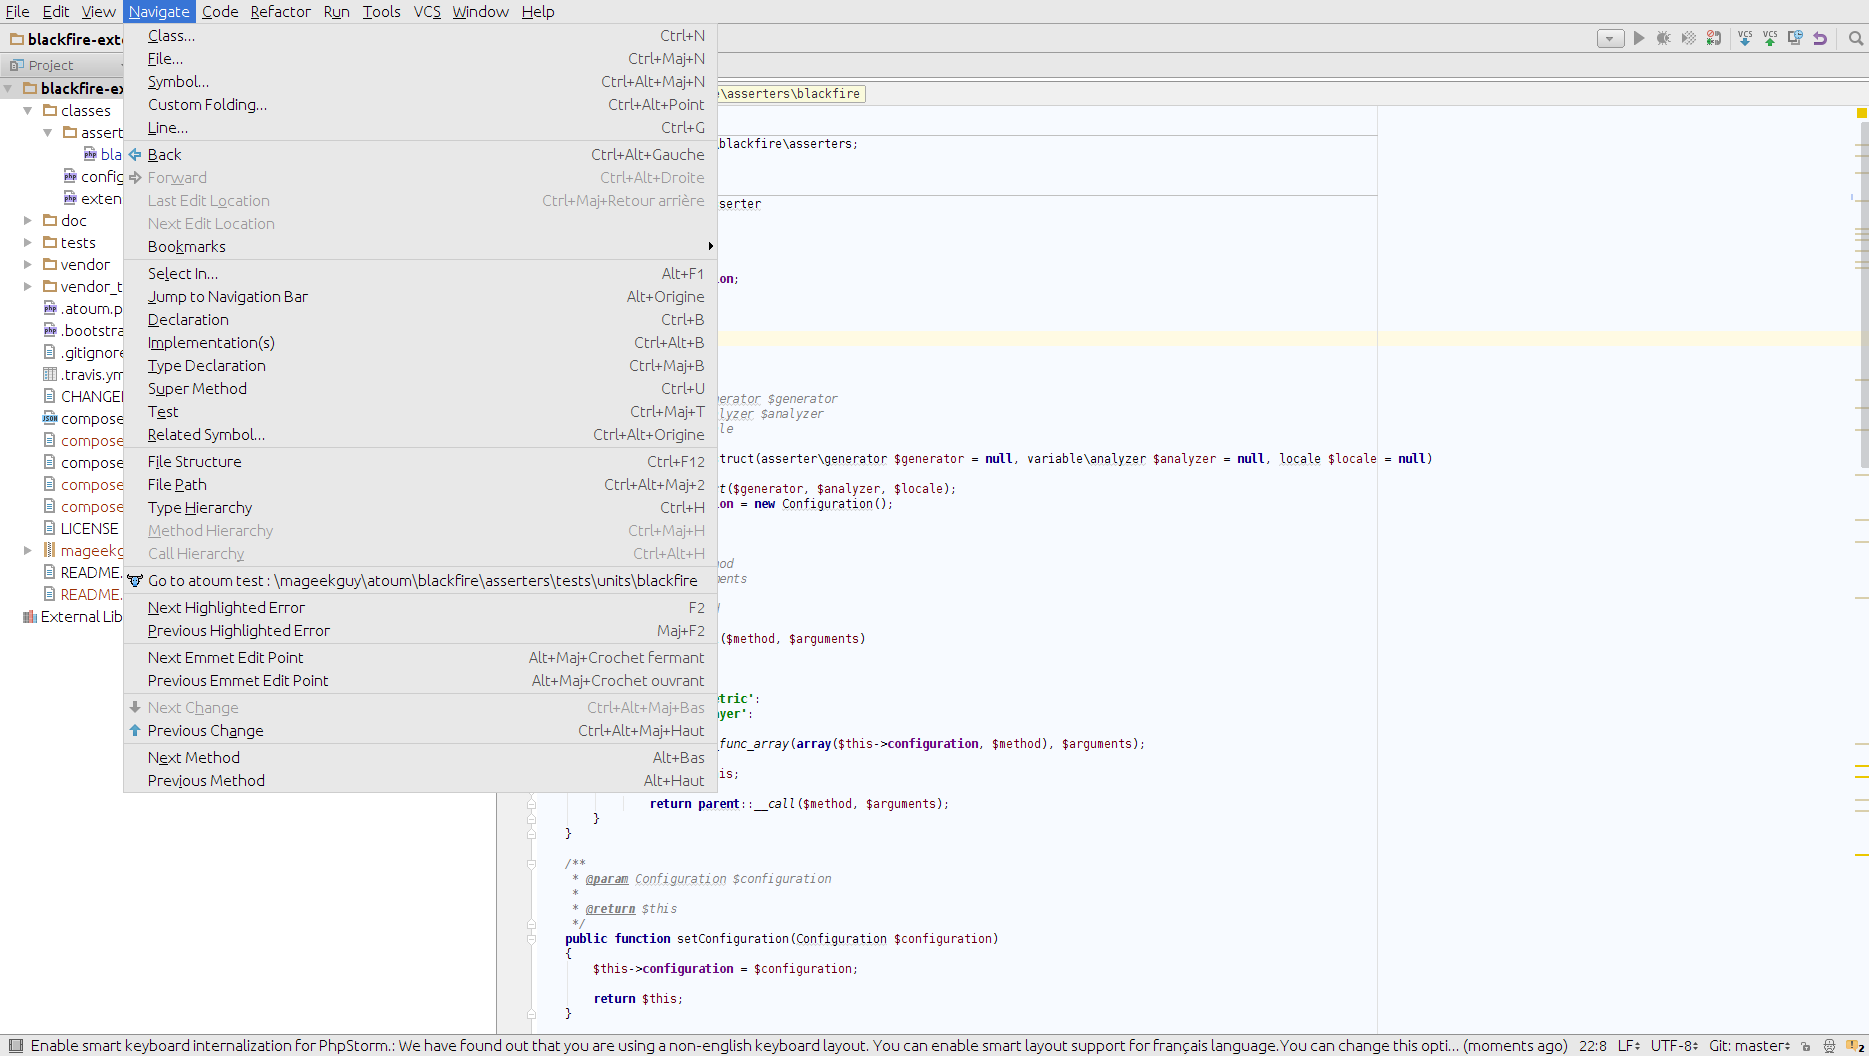
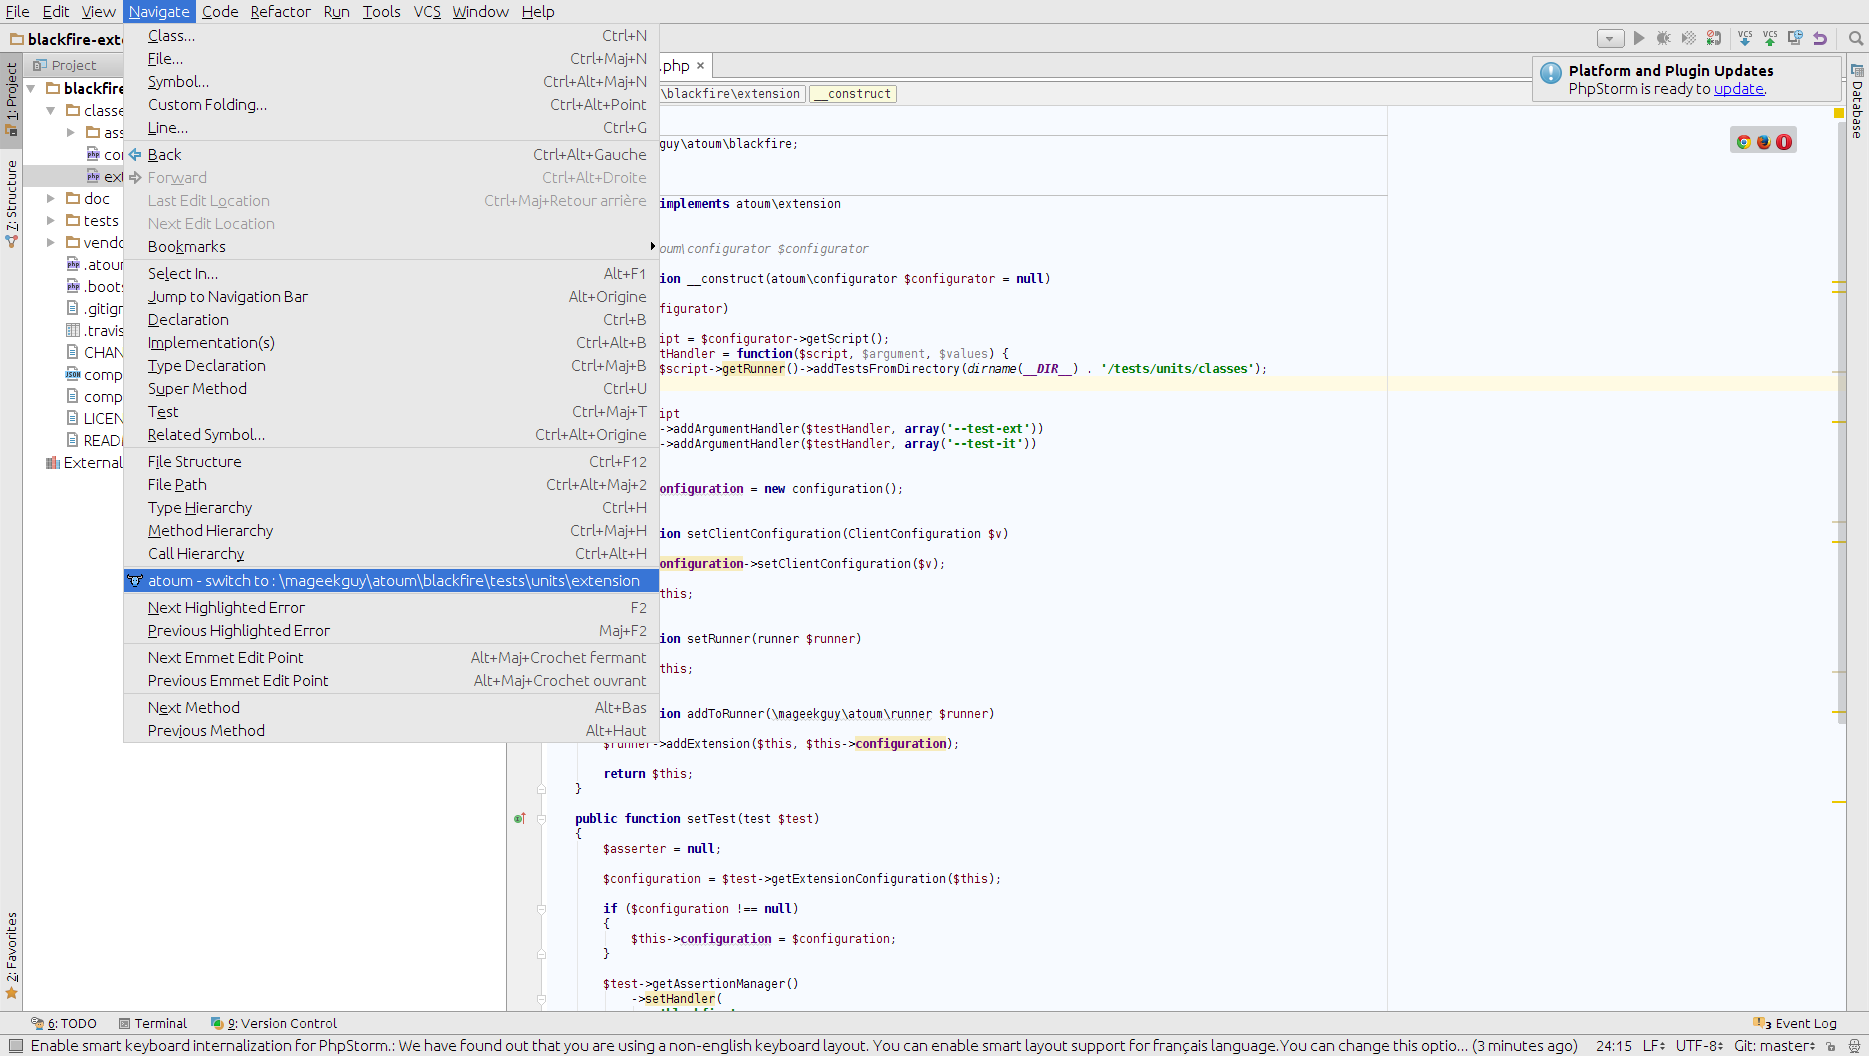
update switch to go from test to tested class
fixes #2

diff --git a/src/pl/projectspace/idea/plugins/php/atoum/actions/AtoumSwitchContext.java b/src/pl/projectspace/idea/plugins/php/atoum/actions/AtoumSwitchContext.java
@@ -16,19 +16,19 @@ public class AtoumSwitchContext extends AnAction {
     public void update(AnActionEvent e) {
         e.getPresentation().setEnabled(false);
         e.getPresentation().setVisible(true);
-        e.getPresentation().setText("Go to atoum test");
+        e.getPresentation().setText("atoum - switch to");
 
-        PhpClass testedClass = getTestedClass(e);
+        PhpClass testedClass = getSwitchClass(e);
         if (null == testedClass) {
             return;
         }
 
-        e.getPresentation().setText("Go to atoum test : " + testedClass.getFQN());
+        e.getPresentation().setText("atoum - switch to : " + testedClass.getFQN());
         e.getPresentation().setEnabled(true);
     }
 
     public void actionPerformed(final AnActionEvent e) {
-        PhpClass testedClass = getTestedClass(e);
+        PhpClass testedClass = getSwitchClass(e);
         if (null == testedClass) {
             return;
         }
@@ -36,41 +36,72 @@ public class AtoumSwitchContext extends AnAction {
     }
 
     @Nullable
-    protected PhpClass getTestedClass(final AnActionEvent e) {
+    protected PhpClass getSwitchClass(final AnActionEvent e) {
         Object psiFile = e.getData(PlatformDataKeys.PSI_FILE);
 
         if (null == psiFile) {
             return null;
         }
 
-        if (psiFile instanceof PhpFile) {
-            PhpFile phpFile = ((PhpFile) psiFile);
-            PhpClass testedClass = getTestedClass(e.getProject(), phpFile);
-            if (null == testedClass) {
-                return null;
-            }
+        if (!(psiFile instanceof PhpFile)) {
+            return null;
+        }
+        PhpFile phpFile = ((PhpFile) psiFile);
+        PhpClass testedClass = getSwitchClass(e.getProject(), phpFile);
 
-            return testedClass;
+        if (null == testedClass) {
+            return null;
         }
 
-        return null;
+        return testedClass;
     }
 
     @Nullable
-    protected PhpClass getTestedClass(Project project, PhpFile phpFile) {
+    protected PhpClass getSwitchClass(Project project, PhpFile phpFile) {
         PhpClass currentClass = getFirstClassFromFile(phpFile);
         if (null == currentClass) {
             return null;
         }
 
-        String testedClassname = currentClass.getNamespaceName() + "tests\\units\\" + currentClass.getName();
-        Collection<PhpClass> phpClasses = PhpIndex.getInstance(project).getAnyByFQN(testedClassname);
-        if (phpClasses.size() == 1) {
-            PhpClass testedClass = (PhpClass)phpClasses.toArray()[0];
-            return testedClass;
+        if (isClassAtoumTest(currentClass)) {
+            return locateTestedClass(project, currentClass);
         }
 
-        return null;
+        return locateTestClass(project, currentClass);
+    }
+
+    protected Boolean isClassAtoumTest(PhpClass checkedClass)
+    {
+        return checkedClass.getNamespaceName().endsWith(getTestsNamespaceSuffix());
+    }
+
+    @Nullable
+    protected PhpClass locateTestClass(Project project, PhpClass testedClass) {
+        String testClassname = testedClass.getNamespaceName() + getTestsNamespaceSuffix() + testedClass.getName();
+        return locatePhpClass(project, testClassname);
+    }
+
+    @Nullable
+    protected PhpClass locateTestedClass(Project project, PhpClass testClass) {
+        String testClassNamespaceName = testClass.getNamespaceName();
+        String testedClassname = testClassNamespaceName.substring(0, testClassNamespaceName.length() - getTestsNamespaceSuffix().length()) + testClass.getName();
+        return locatePhpClass(project, testedClassname);
+
+    }
+
+    @Nullable
+    protected PhpClass locatePhpClass(Project project, String name) {
+        Collection<PhpClass> phpClasses = PhpIndex.getInstance(project).getAnyByFQN(name);
+        if (phpClasses.size() != 1) {
+            return null;
+        }
+
+        return (PhpClass)phpClasses.toArray()[0];
+    }
+
+    private String getTestsNamespaceSuffix()
+    {
+        return "tests\\units\\";
     }
 
     //https://github.com/Haehnchen/idea-php-symfony2-plugin/blob/cb422db9779025d65fdf0ba5d26a38d401eca939/src/fr/adrienbrault/idea/symfony2plugin/util/PhpElementsUtil.java#L784

diff --git a/README.md b/README.md
@@ -2,13 +2,28 @@
 
 Integrates atoum into PHPStorm
 
-
 ## Features
 
-Menu entry to go to the test from the tested class.
+### Go to the test class from the tested class
+
+* From the tested class you can go to the test class from a menu entry in navigation
 
 ![Demo](doc/switch.png)
 
+* Or by an entry bin the right click menu
+
+![Demo](doc/switch-right_click.png)
+
+
+### Go to the tested class from the test class
+
+* From the test class you can go to the tested class from a menu entry in navigation
+
+![Demo](doc/switch_back-right_click.png)
+
+* Or by an entry bin the right click menu
+
+![Demo](doc/switch_back-right_click.png)
 
 ## Links
 
